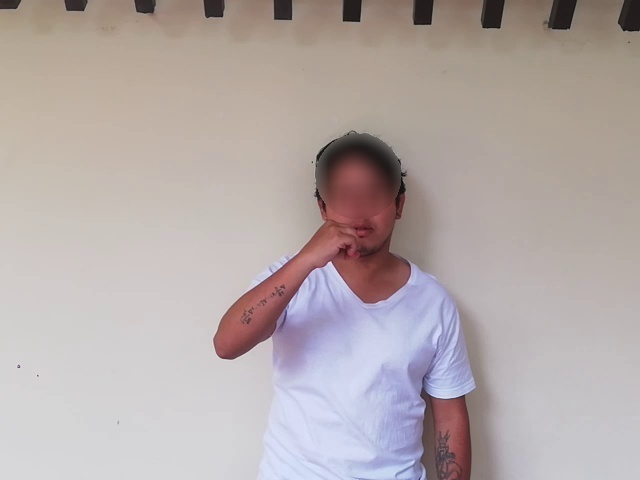
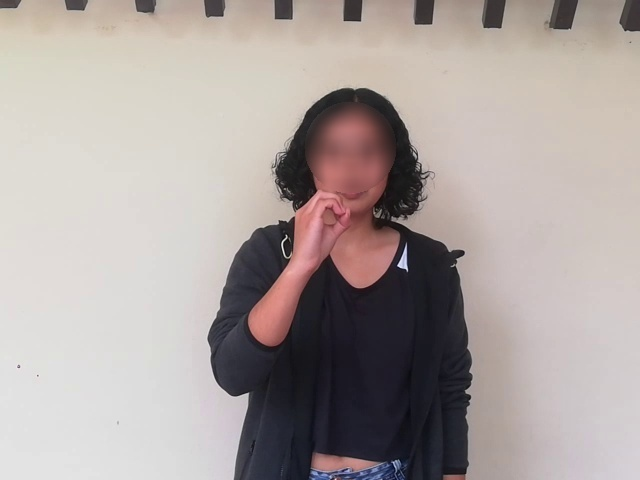
fix(prompt): corregir cinemática de letra O a altura facial/mandíbula según dataset LSC70

diff --git a/app/js/signs-data.js b/app/js/signs-data.js
@@ -217,8 +217,8 @@ const SIGNS_DATA = {
       id: 'O',
       name: 'Letra O',
       category: 'letters',
-      desc: 'Dactilología LSC: Todos los dedos curvados hacia adelante tocando suavemente la yema del pulgar, formando un círculo visible O.',
-      tip: 'Curva tus cuatro dedos y junta sus puntas con el pulgar formando una letra O redonda.',
+      desc: 'Dactilología LSC: Mano derecha elevada al lado de la mandíbula/boca con todos los dedos curvados en arco tocando la yema del pulgar para formar un círculo O visible.',
+      tip: 'Eleva tu mano derecha al lateral de tu barbilla/boca, curva los 4 dedos y junta sus puntas con el pulgar formando un círculo abierto O.',
       image: 'dataset_samples/O.jpg',
       rules: { type: 'o_shape', height: 'any' },
       trajectory: { enabled: false }

diff --git a/referencias_para_gemini/PROMPTS_GEMINI.md b/referencias_para_gemini/PROMPTS_GEMINI.md
@@ -314,19 +314,36 @@ Seamless infinite loop, immaculate pinky and fist geometry, soft studio rim ligh
 
 ---
 
-### 15. Dactilología: Letra O
+### 15. Dactilología: Letra O (LSC70)
 **Español:**
 ```text
-Video en bucle continuo de 2 segundos. Tutora anime de LSC (estilo anime de alta definición, líneas nítidas, fondo azul pizarra oscuro #070c18).
-Primer plano de la mano derecha a la altura del pecho en vista tres cuartos para mostrar el espacio tridimensional de la letra 'O': Los cuatro dedos (índice, medio, anular y meñique) se curvan hacia adelante y abajo de forma uniforme, mientras el pulgar se curva hacia arriba hasta que sus yemas se tocan o acercan sutilmente, formando la silueta circular completa y cerrada de la letra O. Postura clara, estática y educativa.
-Bucle continuo, dedos con curvatura armónica sin deformaciones, círculo vacío claramente visible en el centro, iluminación nítida con reflejos suaves.
+Video en bucle perfecto de 2.5 segundos. Personaje tutor anime de Lengua de Señas Colombiana (Sol, estilo anime cel-shading de alta definición, chaqueta roja oscura/borgoña con solapas gris oscuro, camiseta negra con cuello en V, cabello castaño con mechón rebelde, fondo neutro azul pizarra oscuro #070c18).
+Plano medio mostrando claramente torso superior, rostro y mano derecha. Cinemática oficial canónica de LSC (Colombia - LSC70) para la 'Letra O':
+POSICIÓN Y ALTURA EXACTA SEGÚN EL DATASET:
+El brazo derecho se eleva flexionando el codo hacia adelante, situando la mano derecha a la altura de la mandíbula y la mejilla derecha (al lado de la boca/mentón, NO en el pecho bajo).
+CONFIGURACIÓN DE LA MANO (FORMA DE LA O):
+La mano forma la silueta circular tridimensional de la letra 'O': todos los cuatro dedos (índice, medio, anular y meñique) se curvan hacia adelante y abajo de forma uniforme y conjunta en un arco suave, mientras el pulgar se curva hacia arriba enfrentado a ellos, uniendo suavemente las yemas de los dedos con la yema del pulgar para cerrar un círculo hueco claramente visible y definido en el centro (como mirando a través de un lente u ocular).
+REGLAS ANATÓMICAS CRÍTICAS:
+- NO es la seña de 'OK': los dedos medio, anular y meñique NO deben estar extendidos hacia arriba; deben estar curvados juntos tocando el pulgar.
+- NO es un puño cerrado: el centro del círculo debe estar completamente abierto y visible.
+- La mano se mantiene firme, nítida y estática en esa postura canónica durante 1.8 segundos frente a la cámara, con una leve respiración natural del personaje y sonrisa amable, regresando de forma suave y armónica al bucle.
+Render ultra limpio a 24/60 fps, dedos anatómicos perfectos de 5 dígitos, iluminación de estudio suave con rim light cian sutil.
 ```
 
 **English:**
 ```text
-Seamless 2-second loop video. Anime sign language tutor (crisp high-definition anime style, dark slate background #070c18).
-Close-up of the right hand held at chest height in three-quarters angle to reveal the circular spatial form of the letter 'O': All four fingers curve forward and downward uniformly while the thumb curves upward until fingertips meet gently, creating a clear, complete circular 'O' shape with visible open space in the center. Crisp pedagogical demonstration.
-Seamless loop, proportional finger arches, zero visual artifacts, clean studio illumination.
+Seamless 2.5-second loop video. Anime Colombian Sign Language (LSC) tutor (Sol, crisp high-end cel-shaded anime style, dark red/burgundy jacket with dark slate lapels, black V-neck t-shirt, messy brown hair, dark studio backdrop #070c18).
+Medium shot clearly framing upper torso, face, and right hand. Canonical Colombian Sign Language (LSC70 dataset) manual alphabet letter 'O':
+CANONICAL POSITIONING MATCHING DATASET (LSC70):
+The character raises the right arm with elbow bent, positioning the right hand elevated at jawline / cheek height beside the mouth (face/chin level, NOT down at lower chest).
+HAND CONFIGURATION (ROUND 'O' SHAPE):
+The right hand forms the precise circular silhouette of the letter 'O': all four fingers (index, middle, ring, and pinky) curve downward and forward together in a synchronized smooth arch, while the thumb curves upward to meet the fingertips, creating a clean, hollow, clearly visible circular opening in the center (three-quarters facing camera to display the circular hole).
+CRITICAL ANATOMICAL RULES:
+- NOT an 'OK' sign! Middle, ring, and pinky fingers MUST NOT point straight up; all fingers must curve together touching the thumb.
+- NOT a closed fist! There must be a clear, hollow circular aperture visible between the curved fingers and thumb.
+- Hand height must remain elevated at the jaw/mouth level as documented in LSC70.
+The character holds this canonical posture steadily for 1.8 seconds with gentle natural breathing and a friendly pedagogical smile, smoothly looping.
+Flawless hand anatomy, 5 distinct proportional fingers, no digit fusing or mutations, soft studio rim lighting. 24/60 fps clean render.
 ```
 
 ---
